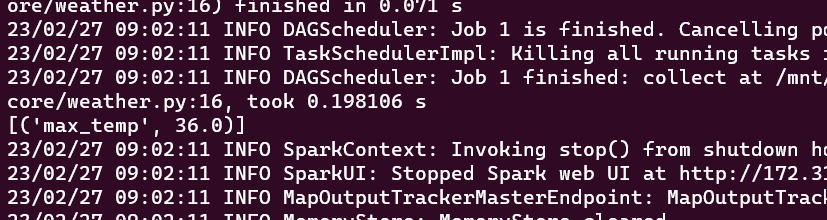
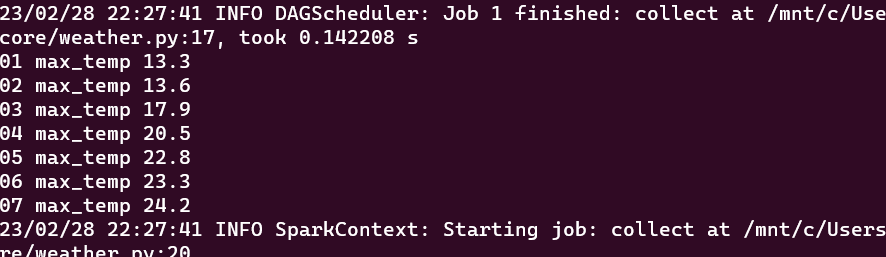
ratings weather corespark asgn updated

diff --git a/assignments/pyspark/pyspark-core/weather.py b/assignments/pyspark/pyspark-core/weather.py
@@ -1,16 +1,23 @@
 from pyspark import SparkContext
 
-sc = SparkContext("local", "ratings app")
+sc = SparkContext("local", "weather app")
 
 lines = sc.textFile("/home/ram/futurense_hadoop-pyspark/labs/dataset/weather/weather_data.txt")
 
 lines1=lines.map(lambda x: x.split())
 lines2=lines1.map(lambda x:("max_temp",float(x[5])))
-lines3=lines2.reduceByKey(lambda x,y:max(x,y))
+linesmax=lines2.reduceByKey(lambda x,y:max(x,y))
 
 l1=lines.map(lambda x: x.split())
-l2=l1.map(lambda x:("min_temp",float(x[5])))
-l3=l2.reduceByKey(lambda x,y:min(x,y))
+l2=l1.map(lambda x:("min_temp",float(x[6])))
+lmin=l2.reduceByKey(lambda x,y:min(x,y))
 
-print(l3.collect())
-print(lines3.collect())
+for each in lines.flatMap(lambda x: [[x.split()[1]]+[x.split()[5]]]).map(lambda x: (x[0][4:6],float(x[1]))).reduceByKey(lambda a,b:min(a,b)).collect():
+    print(each[0],"min_temp",each[1])
+for each in lines.flatMap(lambda x: [[x.split()[1]]+[x.split()[6]]]).map(lambda x: (x[0][4:6],float(x[1]))).reduceByKey(lambda a,b:max(a,b)).collect():
+    print(each[0],"max_temp",each[1])
+
+print(lmin.collect())
+print(linesmax.collect())
+
+

diff --git a/assignments/pyspark/pyspark-core/ratings.py b/assignments/pyspark/pyspark-core/ratings.py
@@ -1,0 +1,8 @@
+from pyspark import SparkContext
+
+sc = SparkContext("local", "ratings app")
+
+l1 = sc.textFile("/mnt/c/Users/miles/Downloads/movies/ratings.csv")
+for rating,vals in l1.map(lambda x:x.split(',')).groupBy(lambda x:x[2]).collect():
+    if rating!="rating":
+        print(rating,len(vals))
